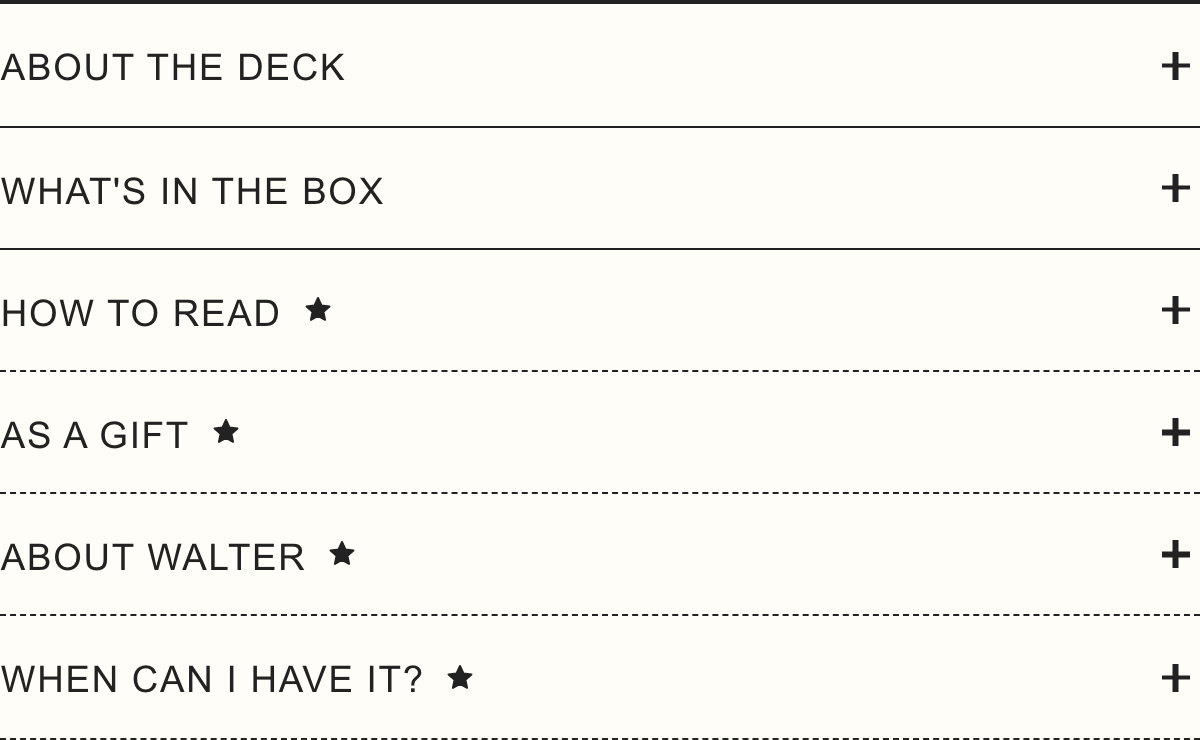
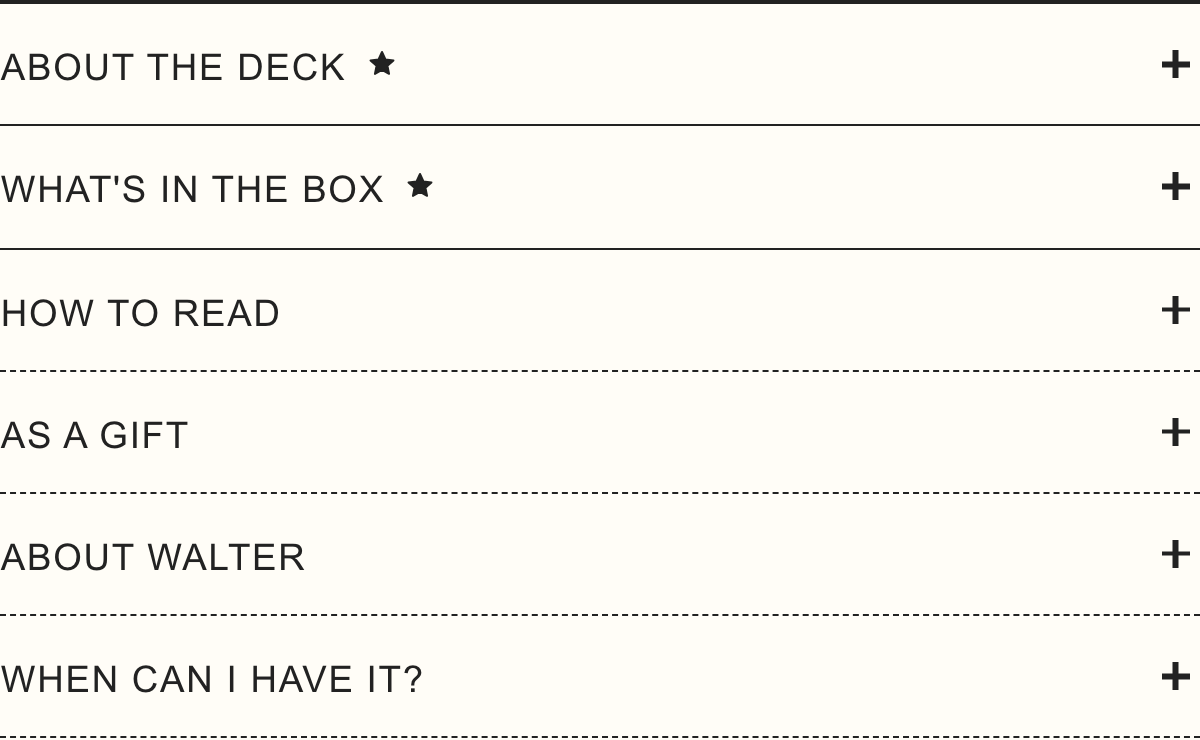
buy column: the star marks the two main accordions, the secondary ones keep the dashed rule only

diff --git a/docs/design/BUY-SECTION-SPEC.md b/docs/design/BUY-SECTION-SPEC.md
@@ -16,7 +16,8 @@ button. Choices are text with a dot and a yellow marker; accordions are ruled ro
 4. **Act** — add to cart (+ express checkout + payment icons) or, before launch, the notify form.
 5. **Read** — accordions, in this order: About the deck · What's in the box (product safety inside
    it) · How to read · As a gift · About Walter · When can I have it? (before launch only).
-   The first two are main (solid rule); the rest are secondary (dashed rule + a small ink star).
+   The first two are main: a solid rule and a small ink star. The rest are secondary: a dashed
+   rule and no star.
    Inside every accordion: the first paragraph is the lead at Body size, the rest is Small.
 
 **Rhythm.** Four groups, 32px apart on desktop and 24px on phones; the accordions get 48 / 32,
